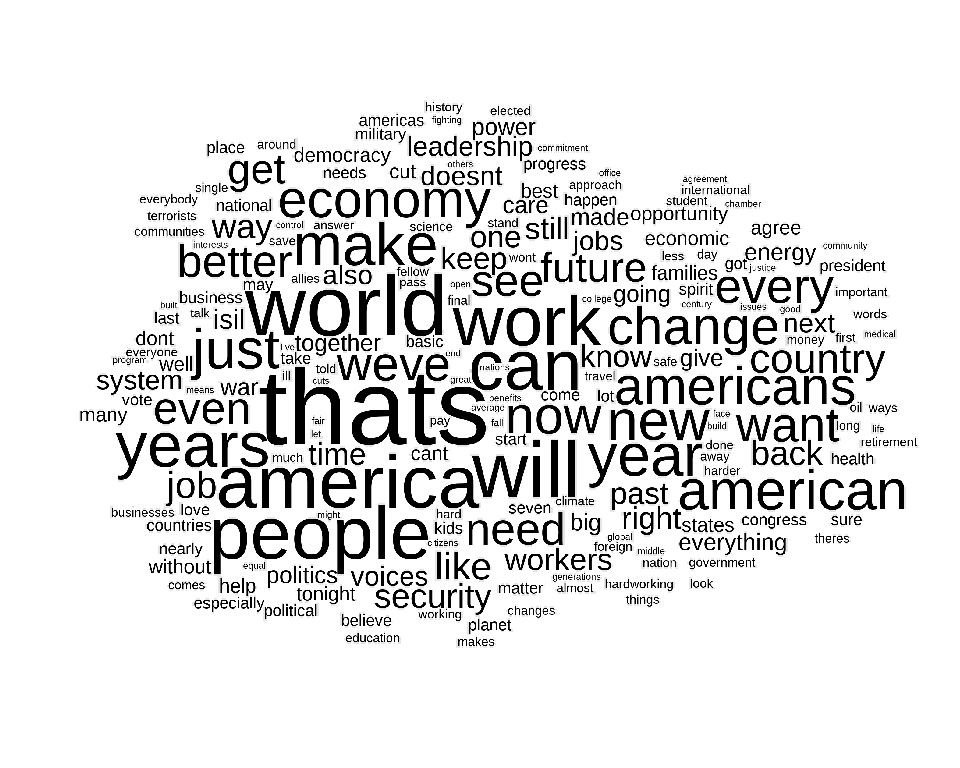
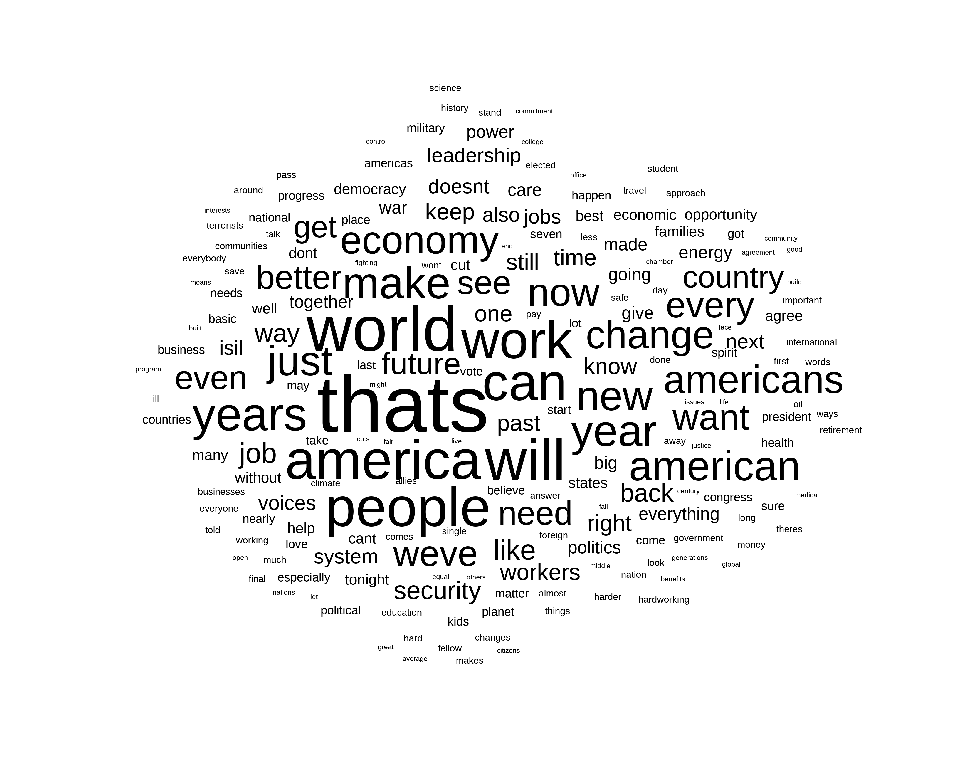
Update readme

Changed region(s): [[0.0625, 0.125, 0.9688, 0.875]]

diff --git a/README.md b/README.md
@@ -70,6 +70,8 @@ cloudr::bmwc(cloudr::obama[1:200,],
 
 <img src="man/figures/README-unnamed-chunk-4-1.png" style="display: block; margin: auto;" />
 
+Increase word buffer
+
 ``` r
 cloudr::bmwc(cloudr::obama[1:200,],
              min_size = 30,
@@ -77,9 +79,8 @@ cloudr::bmwc(cloudr::obama[1:200,],
              spiral_step = 40,
              spiral_length = 100,
              angle_range = c(0, 0),
-             buffer = 5,
-             seed = 1,
-             show_word_buffer = TRUE )
+             buffer = 25,
+             seed = 1)
 #> All words placed
 ```
 
